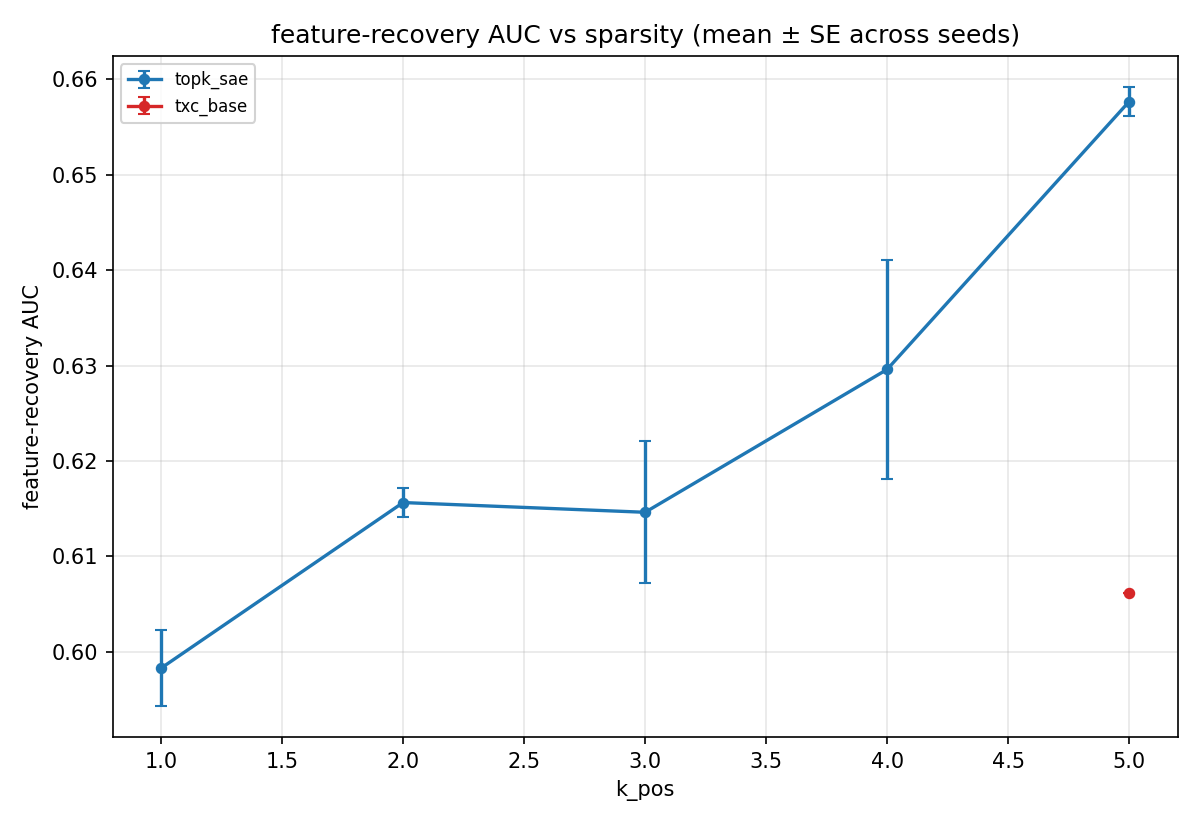
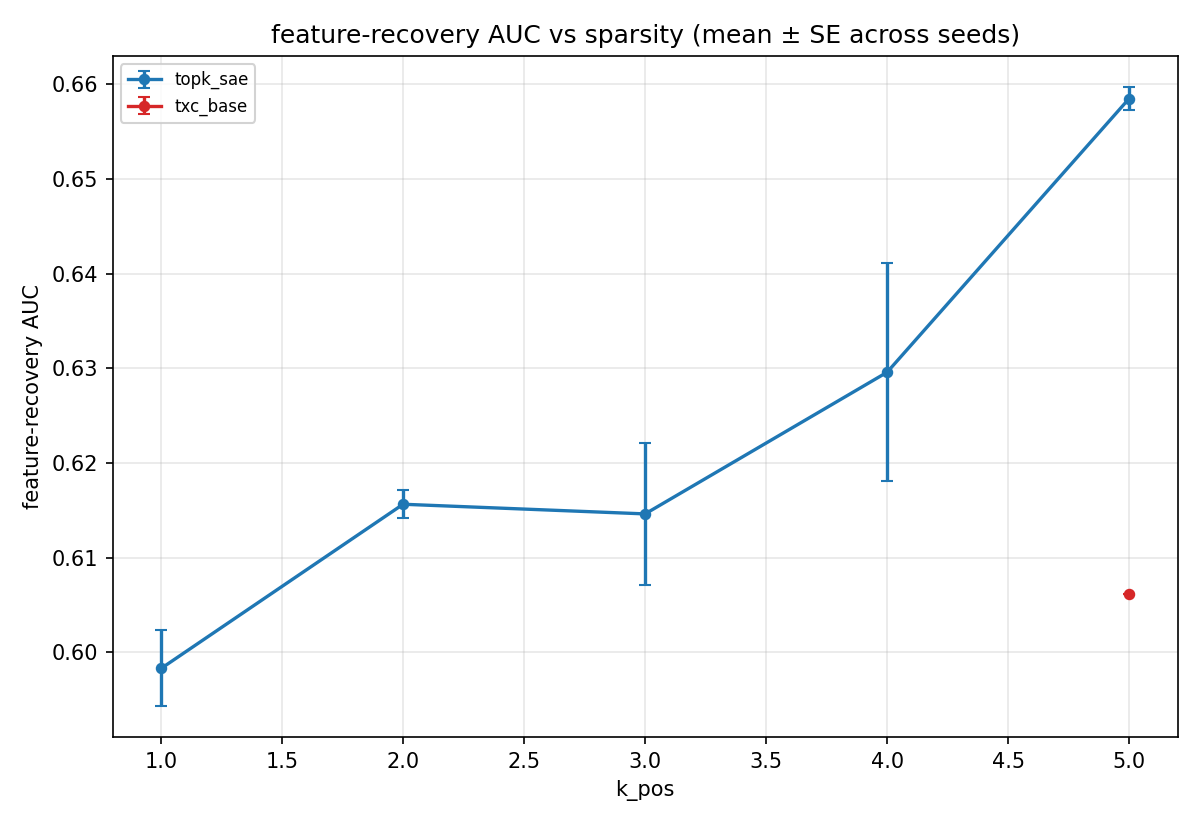
c1+c2 paper auto: refresh synthetic bundles (c1=, c2= leaderboard rows)
Auto-generated by purified/scripts/synthetic_paper_renderer.py.
Inputs: results/leaderboard.jsonl filtered to component in (c1,c2)
with eval_cfg._full_suite=true (the c{1,2}_synthetic_*_full driver flag).

diff --git a/purified/docs/components/c1_paper_results.md b/purified/docs/components/c1_paper_results.md
@@ -1,6 +1,6 @@
 # C1 Synthetic TopK — paper-ready results (auto-generated)
 
-_Last refreshed: 2026-05-06T08:30:58+00:00_
+_Last refreshed: 2026-05-06T09:01:02+00:00_
 
 ## Setup
 
@@ -9,13 +9,13 @@ _Last refreshed: 2026-05-06T08:30:58+00:00_
 - Metric: feature-recovery AUC against the 20 ground-truth orthogonal directions (per-feature max cosine ≥ τ, integrated over τ ∈ [0, 1]).
 - Driver: `experiments/c1_synthetic_topk_full/run.py` (routes through `temp_bench.data.toy_full.api`, isolated from agent_filler's `toy_markov_n20_d40` cache via distinct `act_cache_key`).
 
-Currently 15 cells across 2 (arch, T) configurations; seeds-per-cell range = [1, 2].
+Currently 16 cells across 2 (arch, T) configurations; seeds-per-cell range = [1, 3].
 
 ## Headline (peak AUC over k_pos)
 
 | arch | T | k\* | AUC (mean ± SE) | n seeds |
 |------|---|----|---------------------------|---------|
-| `topk_sae` | — | 5 | 0.658 ± 0.002 | 2 |
+| `topk_sae` | — | 5 | 0.659 ± 0.001 | 3 |
 | `txc_base` | — | 5 | 0.606 ± 0.000 | 1 |
 
 ## AUC vs k_pos
@@ -26,5 +26,5 @@ Currently 15 cells across 2 (arch, T) configurations; seeds-per-cell range = [1,
 
 | arch (T) | k=1 | k=2 | k=3 | k=4 | k=5 |
 |---|---|---|---|---|---|
-| `topk_sae` | 0.598 | 0.616 | 0.615 | 0.630 | 0.658 |
+| `topk_sae` | 0.598 | 0.616 | 0.615 | 0.630 | 0.659 |
 | `txc_base` | — | — | — | — | 0.606 |

diff --git a/purified/docs/components/c2_paper_results.md b/purified/docs/components/c2_paper_results.md
@@ -1,6 +1,6 @@
 # C2 Synthetic Coupled — paper-ready results (auto-generated)
 
-_Last refreshed: 2026-05-06T08:30:58+00:00_
+_Last refreshed: 2026-05-06T09:01:02+00:00_
 
 ## Setup
 
